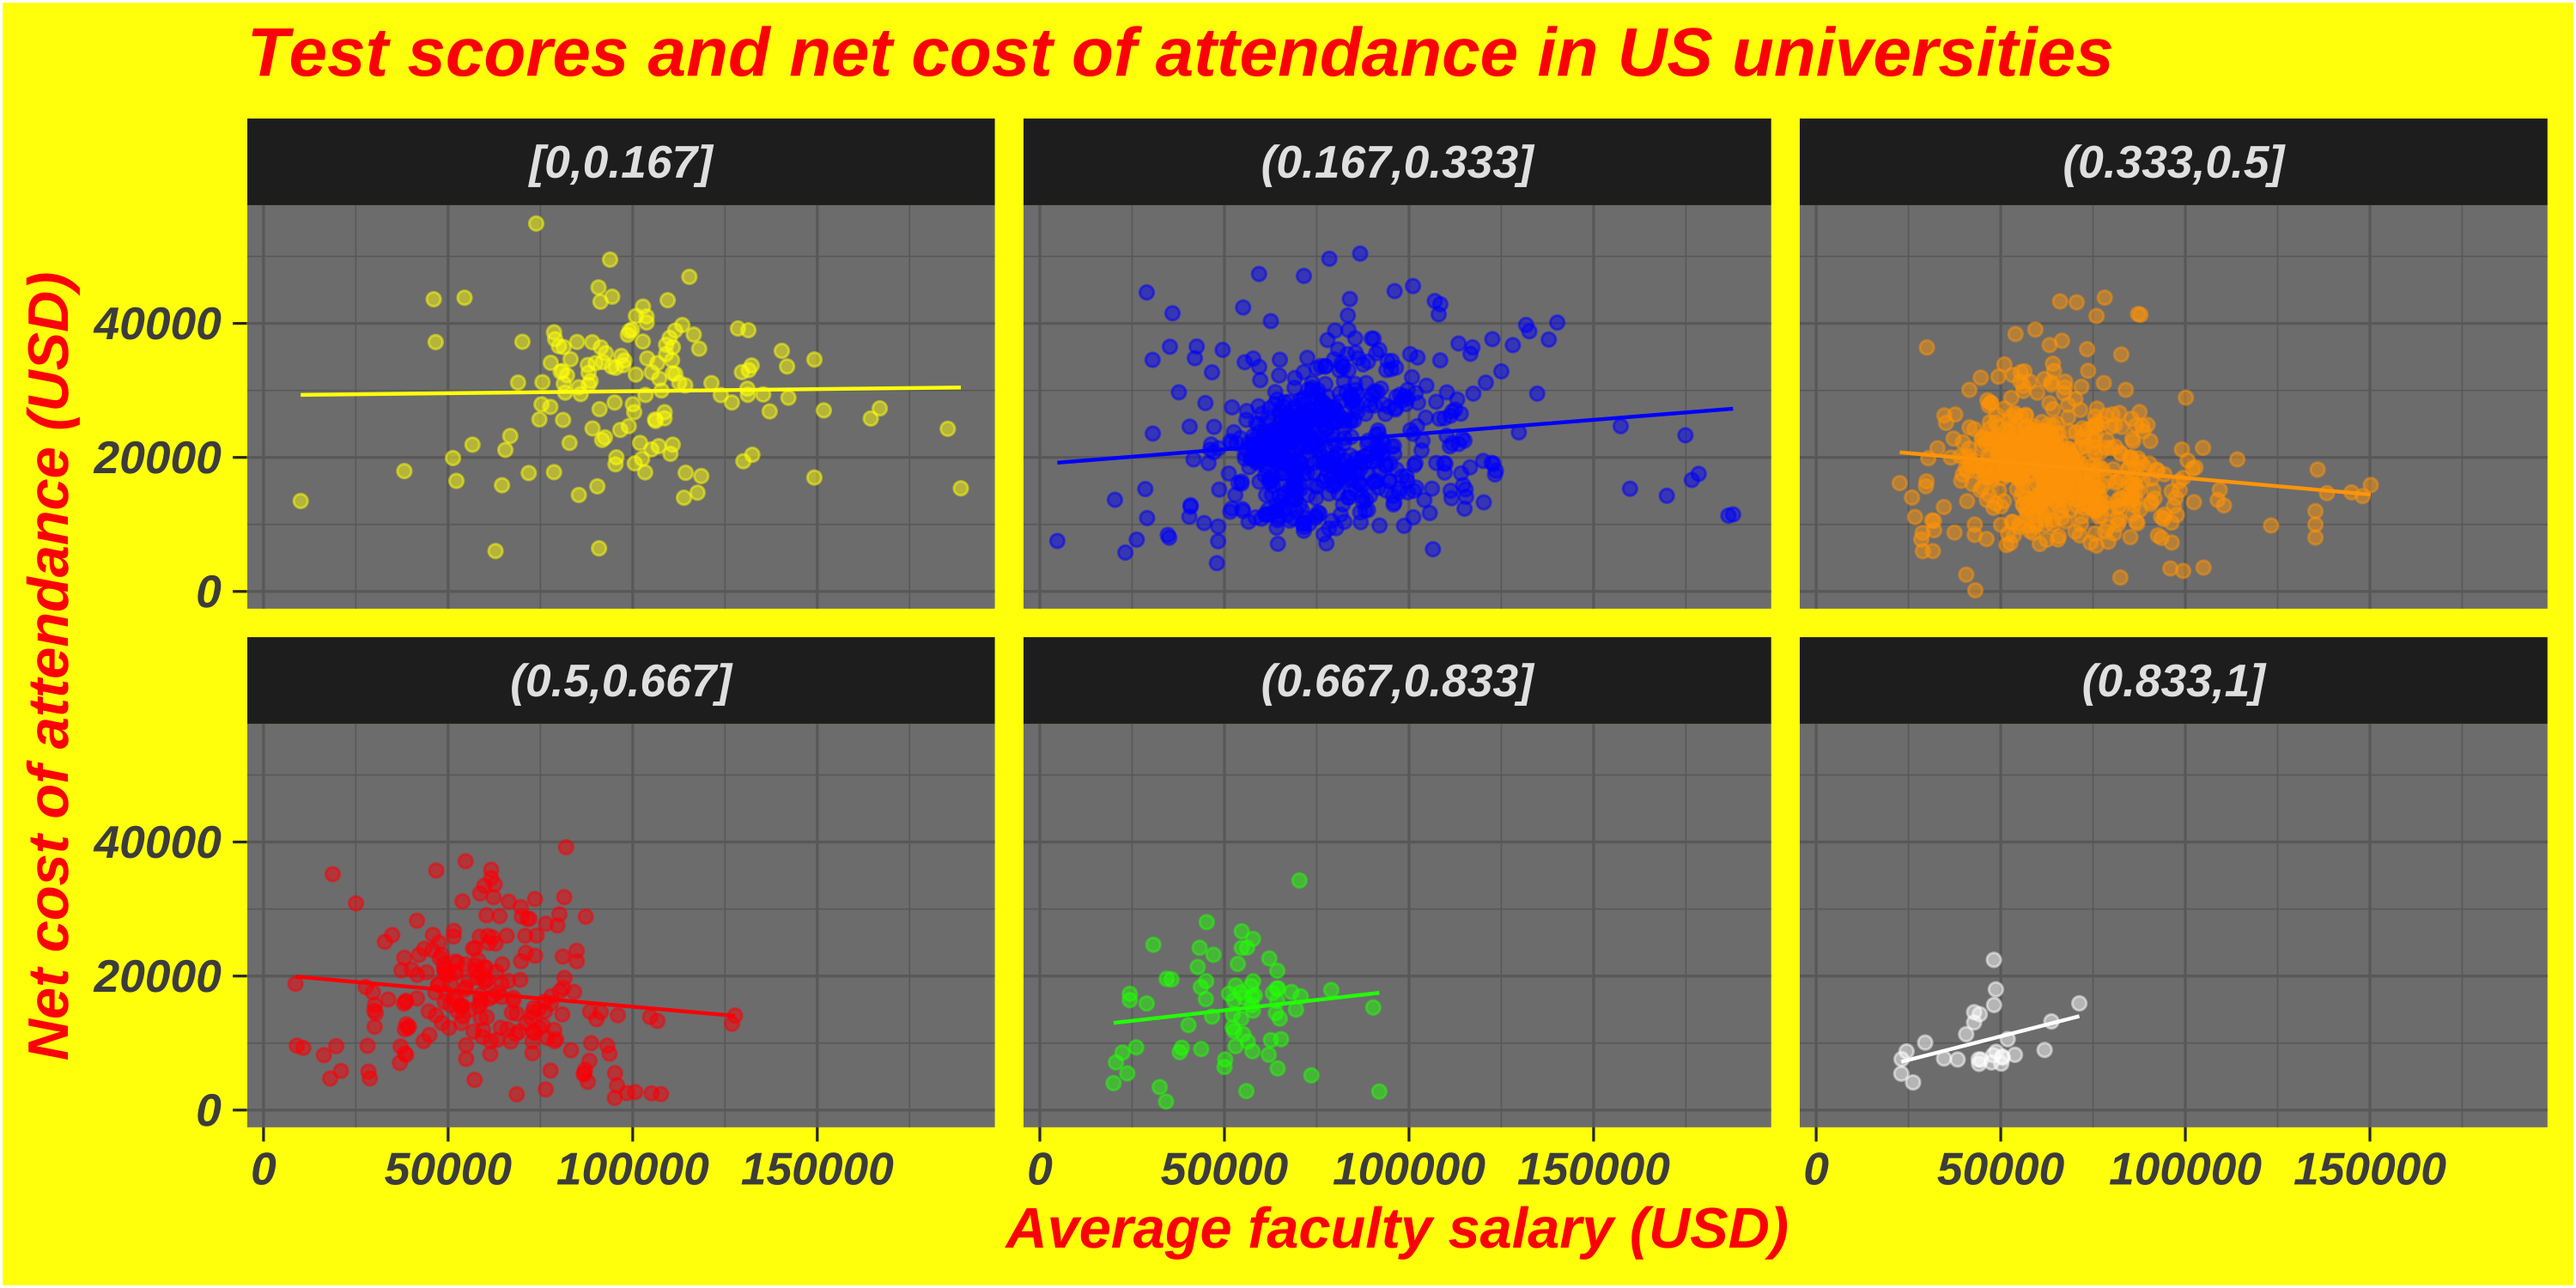
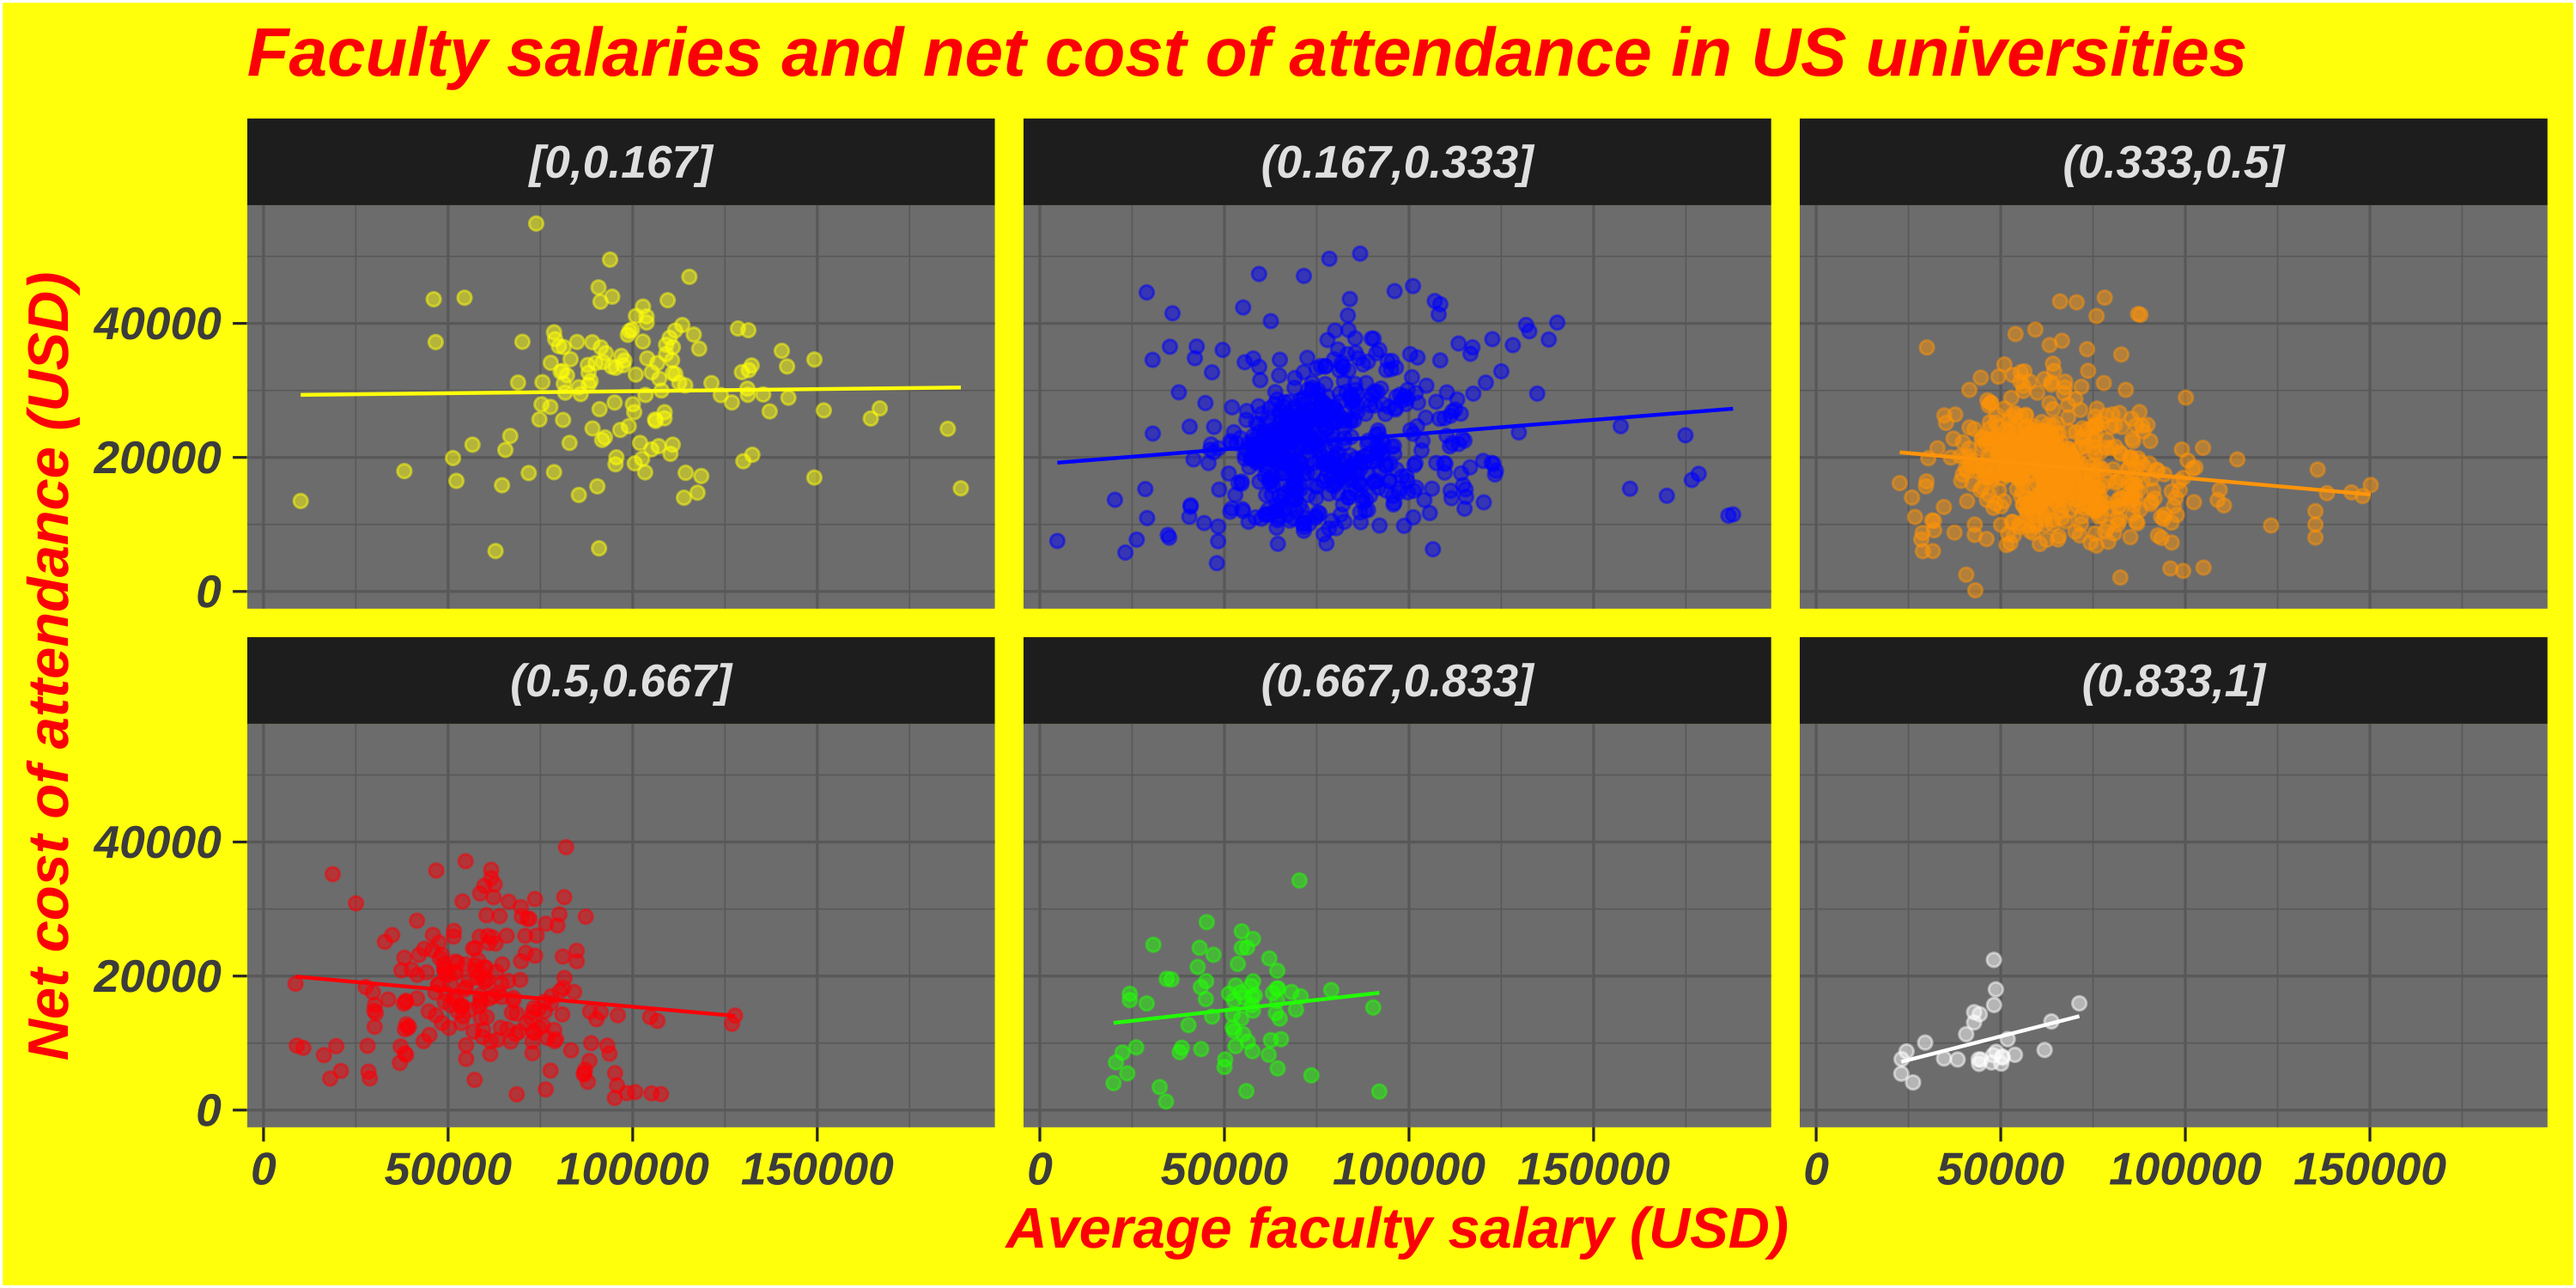
Fix typos in day 3 slides

Changed region(s): [[0.093, 0.0, 0.868, 0.0613]]

diff --git a/03-look-at-data/index.html b/03-look-at-data/index.html
@@ -324,7 +324,7 @@ ggplot(scorecard, aes(x = avgfacsal, y = netcost)) +
   labs(
     x = "Average faculty salary (USD)",
     y = "Net cost of attendance (USD)",
-    title = "Test scores and net cost of attendance in US universities"
+    title = "Faculty salaries and net cost of attendance in US universities"
   )
 ```
 
@@ -493,7 +493,7 @@ ggplot(scorecard, aes(x = avgfacsal, y = netcost, color = pctpell_cat)) +
     x = "Average faculty salary (USD)",
     y = "Net cost of attendance (USD)",
     color = "Percentage of Pell grant recipients",
-    title = "Test scores and net cost of attendance in US universities"
+    title = "Faculty salaries and net cost of attendance in US universities"
   ) +
 * theme_minimal(base_size = 16) +
 * scale_color_viridis_d(end = 0.9)
@@ -520,7 +520,7 @@ ggplot(scorecard, aes(x = avgfacsal, y = netcost, color = pctpell_cat)) +
     x = "Average faculty salary (USD)",
     y = "Net cost of attendance (USD)",
     color = "Percentage of Pell grant recipients",
-    title = "Test scores and net cost of attendance in US universities"
+    title = "Faculty salaries and net cost of attendance in US universities"
   ) +
   theme_minimal(base_size = 16) +
 * scale_color_viridis_d(end = 0.8, option = "A")
@@ -547,7 +547,7 @@ ggplot(scorecard, aes(x = avgfacsal, y = netcost, color = pctpell_cat)) +
     x = "Average faculty salary (USD)",
     y = "Net cost of attendance (USD)",
     color = "Percentage of Pell grant recipients",
-    title = "Test scores and net cost of attendance in US universities"
+    title = "Faculty salaries and net cost of attendance in US universities"
   ) +
 * theme_dark(base_size = 16) +
 * scale_color_manual(values = c("yellow", "blue", "orange", "red", "green", "white")) +
@@ -724,7 +724,9 @@ This is Minard’s visualization of Napoleon’s retreat. Discuss in a pair (or 
 
 &lt;img src="images/minard.jpg" title="Minard’s visualization of Napoleon’s retreat" alt="Minard’s visualization of Napoleon’s retreat" width="83%" style="display: block; margin: auto;" /&gt;
 
-<div class="countdown" id="timer_624c6199" style="top:0;right:0;" data-warnwhen="0">
+.footnote[Source: [Wikipedia](https://en.wikipedia.org/wiki/Charles_Joseph_Minard#/media/File:Minard.png)]
+
+<div class="countdown" id="timer_624c63b9" style="top:0;right:0;" data-warnwhen="0">
 <code class="countdown-time"><span class="countdown-digits minutes">05</span><span class="countdown-digits colon">:</span><span class="countdown-digits seconds">00</span></code>
 </div>
 
@@ -819,7 +821,7 @@ ggplot(mean_netcost_pctpell, aes(y = pctpell_cat, x = mean_netcost)) +
 ]
 ]
 
-<div class="countdown" id="timer_624c5f35" style="right:0;bottom:0;" data-warnwhen="0">
+<div class="countdown" id="timer_624c6387" style="right:0;bottom:0;" data-warnwhen="0">
 <code class="countdown-time"><span class="countdown-digits minutes">03</span><span class="countdown-digits colon">:</span><span class="countdown-digits seconds">00</span></code>
 </div>
 
